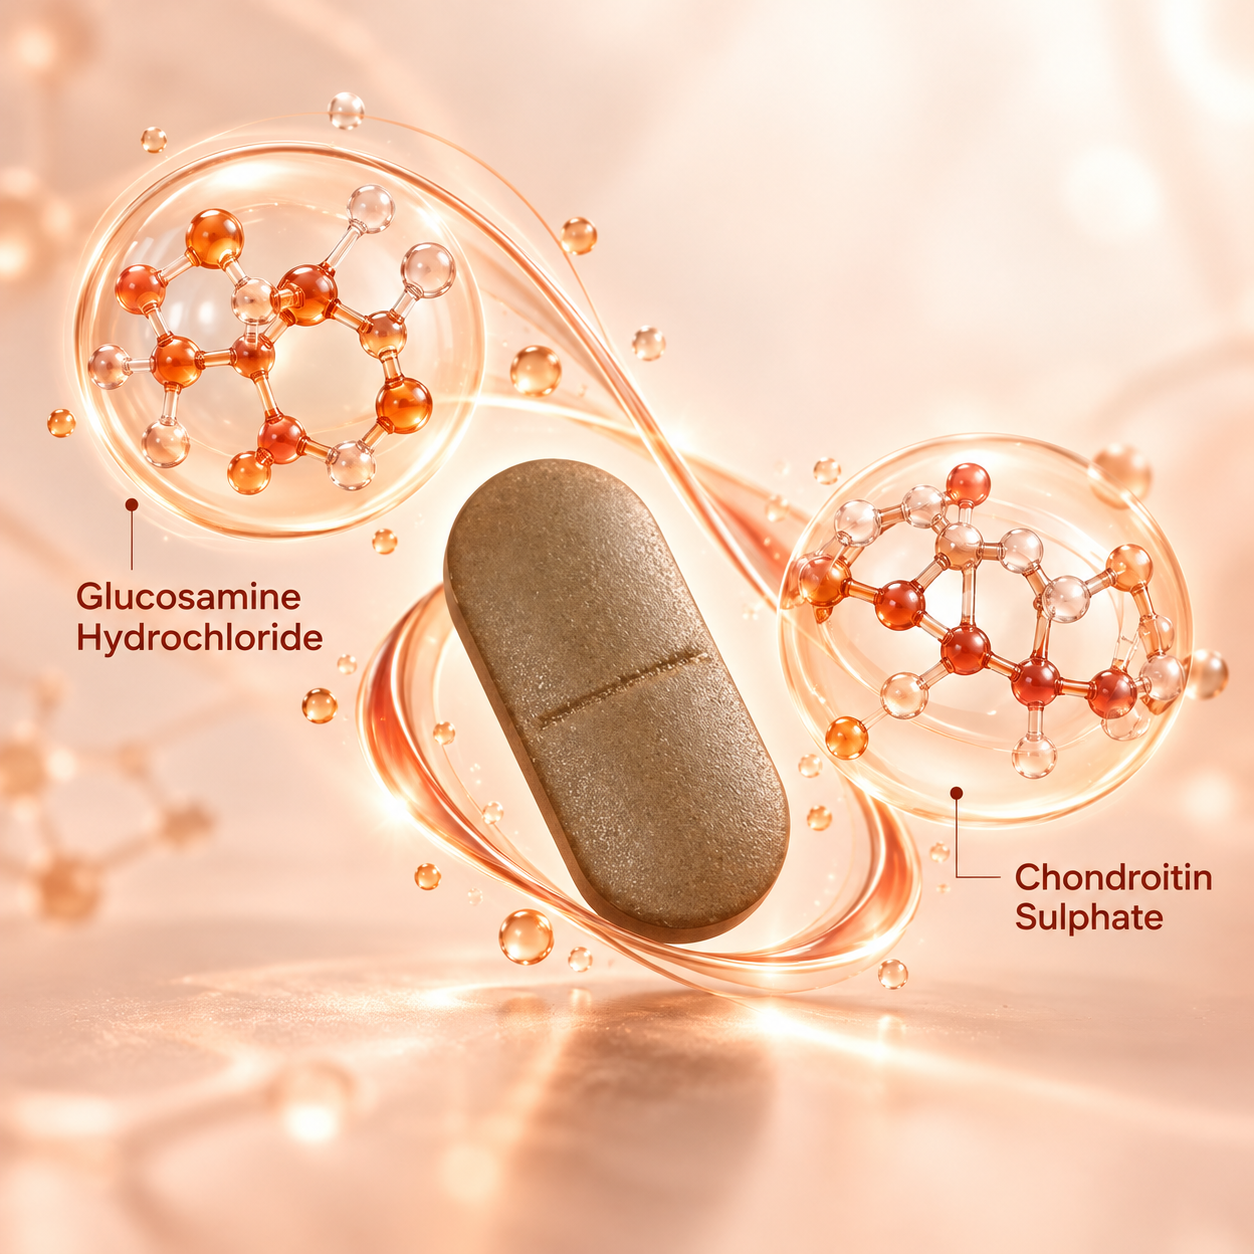
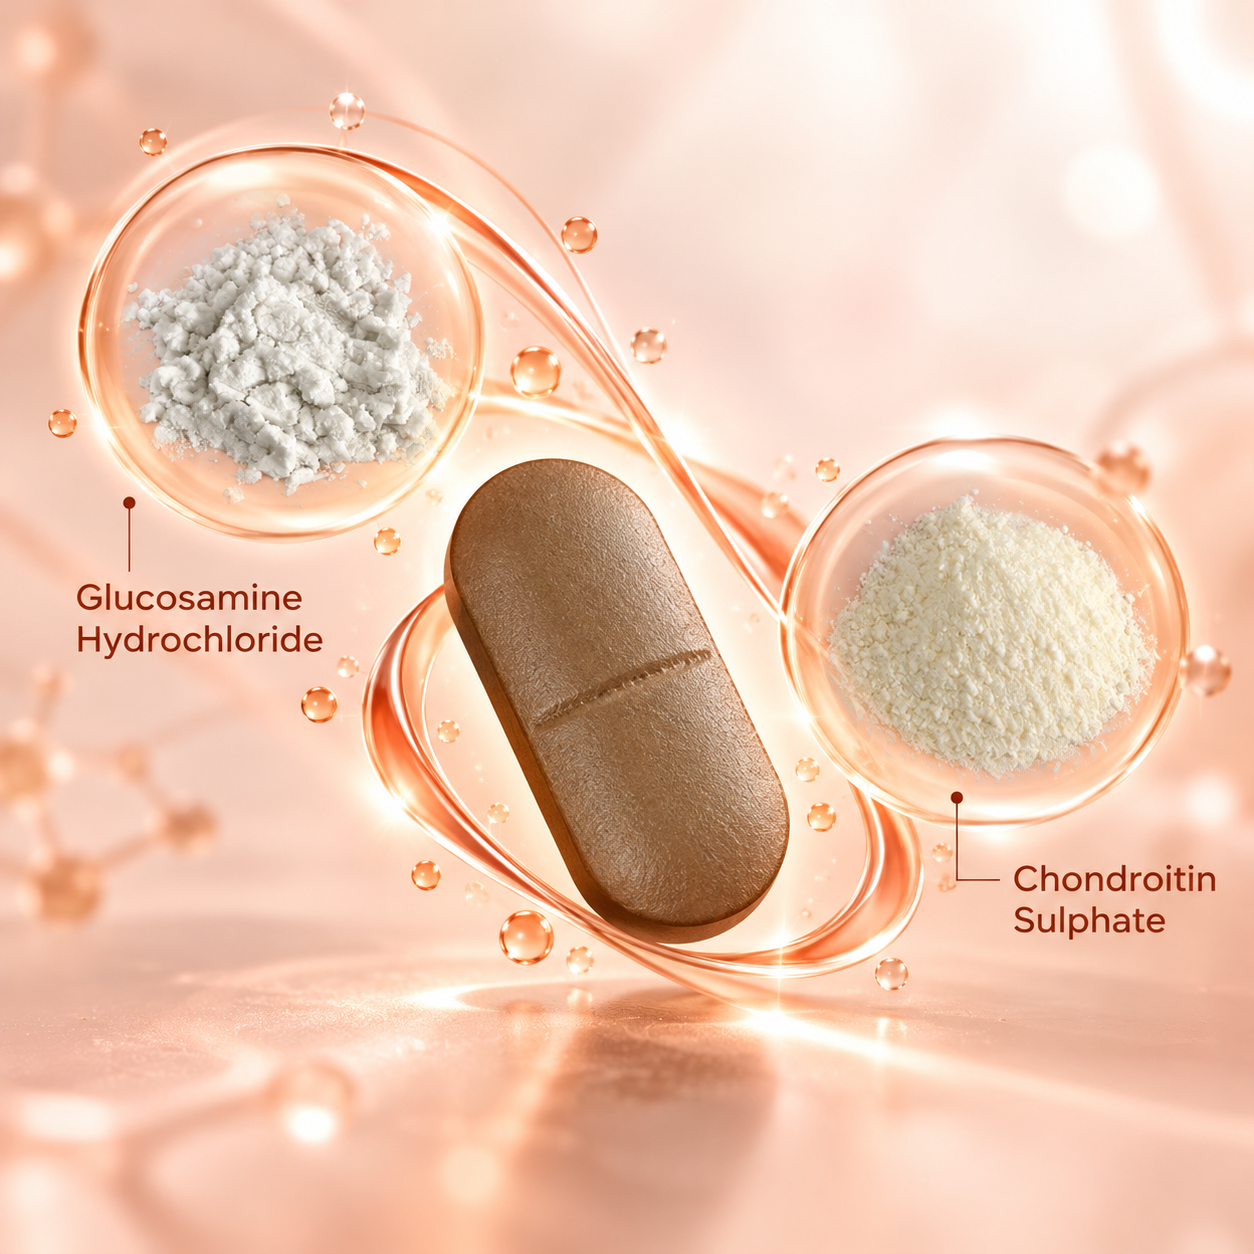
Joint Max: client copy pass, timeline artwork, and a tint fix
Pair it with
- Joint Max rendered in Iron+'s pink on every sibling page. Each product page
  carries its own tint map and three of them had no joint-max entry, so the
  lookup fell through to its `|| _tint['advanced-iron']` default. Added to
  Iron+, EnergyOne+ and Ginger+, along with the matching pack shot.

Who it's for
- Client copy: heading "Made for the way you move", new lede, and three new
  captions. "On your feet all day" was not annotated so it stands.
- The supplied sentence became the footnote verbatim, with "not for medicinal
  use" and the pregnancy/medication pointer kept after it. The carton prints
  that in bold and this is now the only place on the page it appears.

Where it works
- The sentence naming an active and what it does is marked in each card. A
  tinted highlight rather than bold: bold at that size competes with the card
  heading. box-decoration-break:clone so the tint stays rounded across wraps.

FAQ
- Client copy for "What's in Joint Max?", "How long before I notice anything?"
  and "Who is Joint Max for?".
- "Is Joint Max vegetarian?" removed at the client's instruction. NOTE that
  was the only mention of glucosamine commonly being shellfish-derived, so the
  allergen question is now unanswered anywhere on the site.

Em dashes
- Removed from every piece of rendered copy on the page. Each was rewritten
  rather than deleted, since a dash carries a clause break and dropping the
  character alone leaves broken grammar.
[…]

Changed region(s): [[0.0311, 0.0622, 0.9952, 0.8397], [0.8086, 0.6842, 0.9641, 0.7464], [0.0933, 0.8086, 0.1244, 0.8397]]

diff --git a/app/src/data/faq.js b/app/src/data/faq.js
@@ -14,15 +14,15 @@ module.exports = {
     { q: "What is your return policy?",
       a: "Unopened packs can be returned within <strong>30 days</strong> for a full refund. If your pack arrives damaged, write to us within 7 days and we'll replace it." },
     { q: "Do you ship outside India?",
-      a: "Not yet. We're focused on India for now \u2014 international shipping is on the roadmap. Drop us a note at hello@shiorra.com to be notified." }
+      a: "Not yet. We're focused on India for now, and international shipping is on the roadmap. Drop us a note at hello@shiorra.com to be notified." }
   ],
   service: [
     { q: "Who makes Shi\u014drra products?",
-      a: "Shi\u014drra is a trademark of <strong>K.C. Laboratories</strong> \u2014 a 30-year clinical formulation house in India. Every formula is developed in-house and manufactured at our FSSAI &amp; GMP-certified facility." },
+      a: "Shi\u014drra is a trademark of <strong>K.C. Laboratories</strong>, a 30-year clinical formulation house in India. Every formula is developed in-house and manufactured at our FSSAI &amp; GMP-certified facility." },
     { q: "Are your products tested?",
       a: "Yes. Every batch is lab-tested for potency, purity and heavy-metal limits. We don't ship a batch until it clears." },
     { q: "What does \"Shiori\" mean?",
-      a: "\"Shiori\" (\u681e) is the Japanese word for a bookmark \u2014 a gentle guide that holds your place. We picked the name because that's the kind of brand we wanted to build: quiet, reliable, with you for the long story." },
+      a: "\"Shiori\" (\u681e) is the Japanese word for a bookmark, a gentle guide that holds your place. We picked the name because that's the kind of brand we wanted to build: quiet, reliable, with you for the long story." },
     { q: "Who do I write to with questions?",
       a: "Email <a href=\"mailto:hello@shiorra.com\" style=\"color:var(--honey-deep);text-decoration:underline\">hello@shiorra.com</a>. A real human (often pharmacology-trained) replies within 24 hours, Mon-Sat." }
   ],
